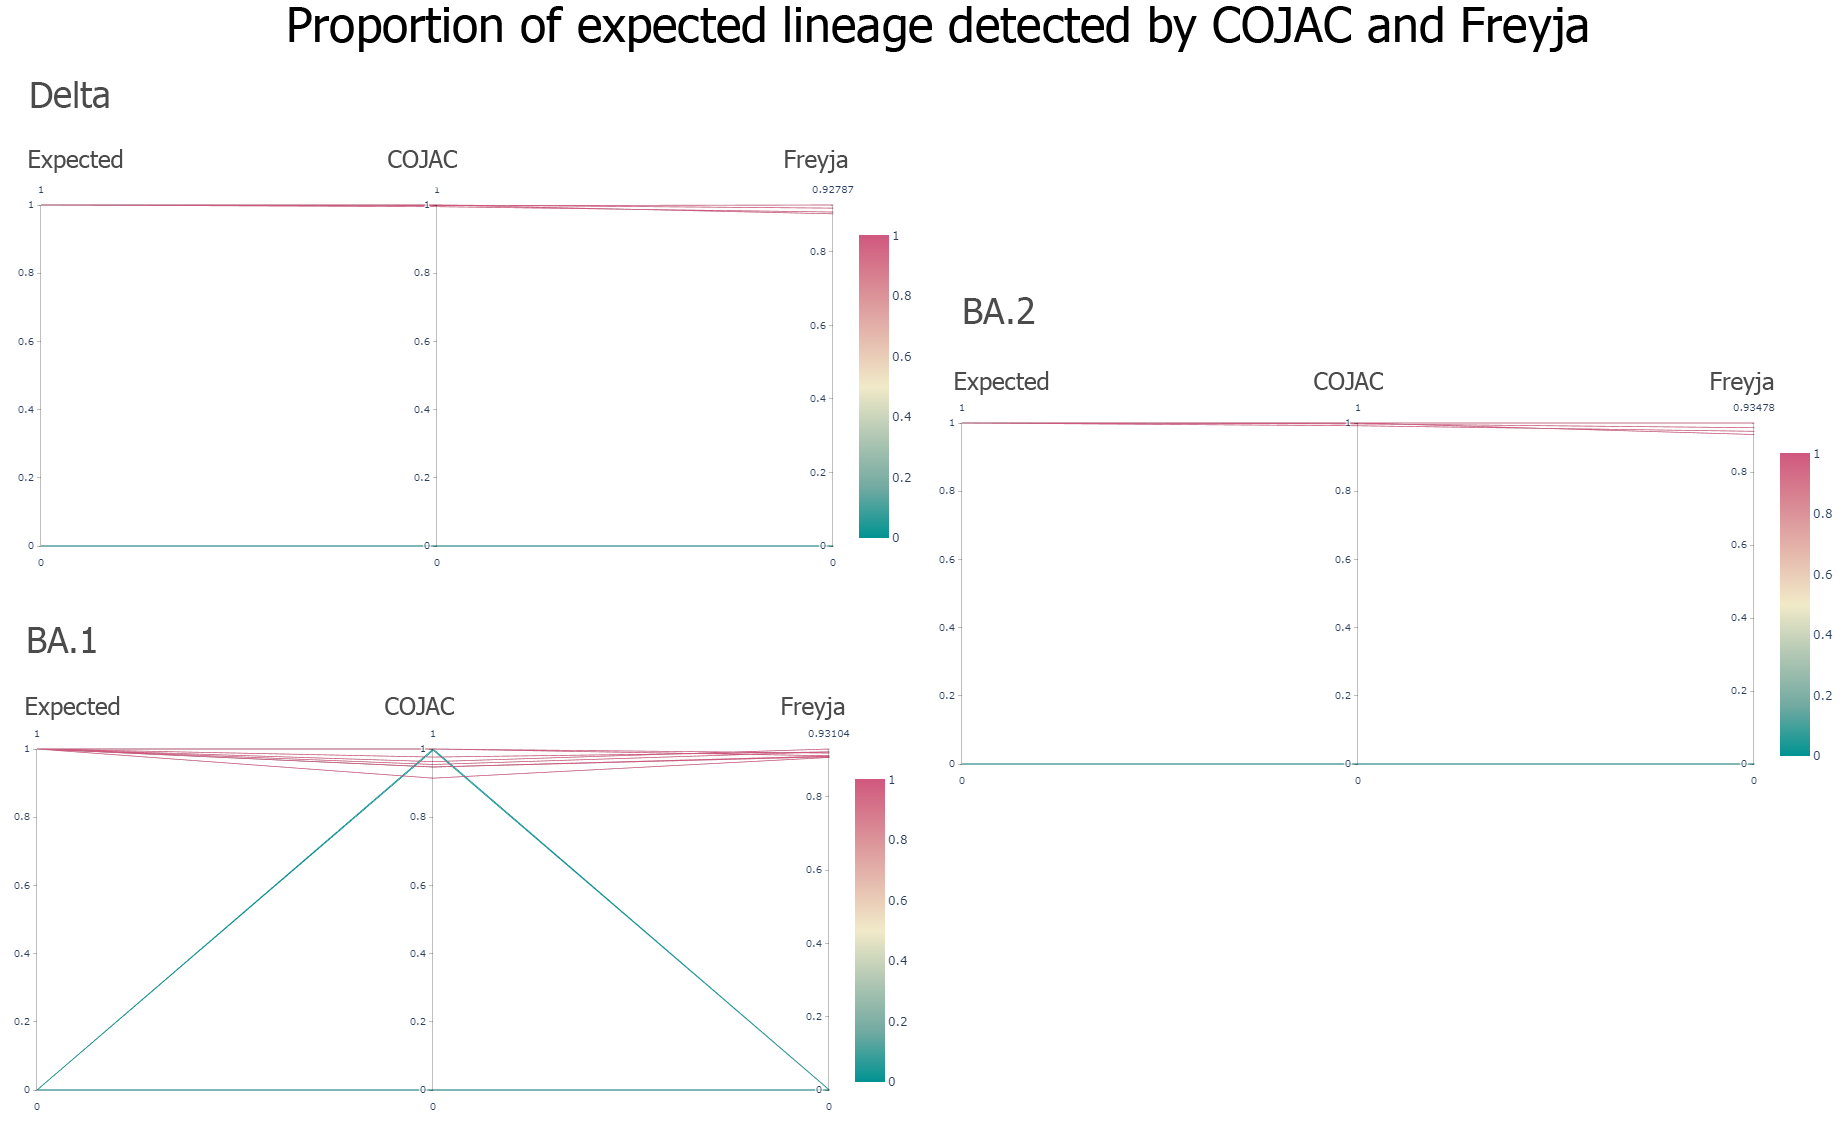
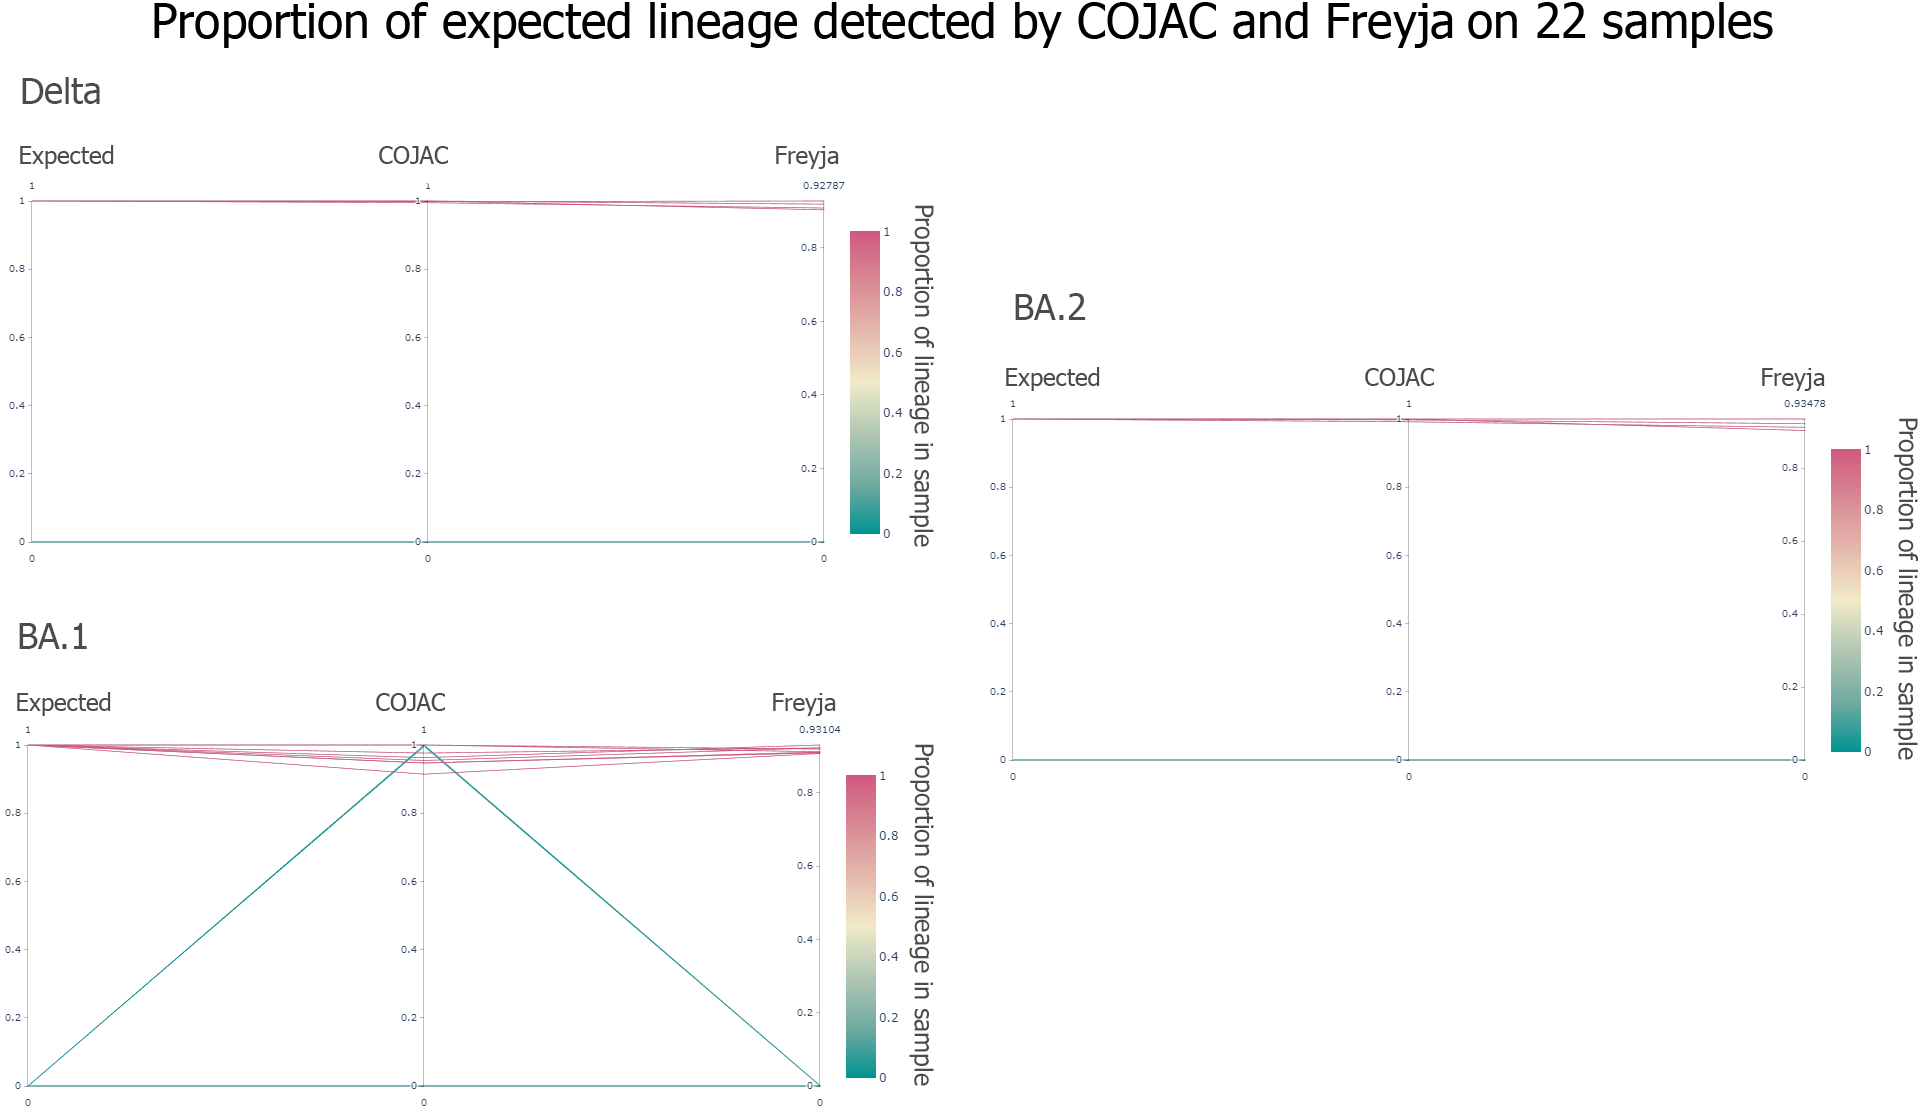
add

diff --git a/slides.md b/slides.md
@@ -313,6 +313,7 @@ Note:
 <img src="img/results/singlin-bar-venn.png" alt="drawing" width="800"/>
 
 Note:
+- 1
 - **Barplot:**
 - I analyzed separately samples were **single lineage** was expected. 
 - compared results from **COJAC**-based and **Freyja**-based Galaxy workflows with **Lineagespot**.
@@ -326,6 +327,7 @@ Note:
 - **Venn upset diagram:**
 - intersections between sets of results and determined which samples were correctly detected by which tool (in terms of the lineages expected) and how similar the results were between tools.
 - Each column corresponds to a set of obtained results from certain tools (COJAC, Lineagespot, Freyja), and bar charts on top show the size of the set of tool’s results. 
+- 2
 - The first row in the figure is completely empty, while 1 sample is expected to be detected but was not. This specific sample is expected to contain only unknown synthetic lineage.
 
 ------
@@ -333,14 +335,17 @@ Note:
 ### Results on mock dataset
 #### Single lineage expected
 
-<img src="img/results/pc-singlin.png" alt="drawing" width="800"/>
+<img class="fragment fade-out" data-fragment-index="0" src="img/results/pc-singlin.png" alt="drawing" width="800"/>
+<img class="fragment current-visible" data-fragment-index="0" src="img/results/pc-singlin-sample52.png" alt="drawing" width="800"/>
 
 Note:
-- Parallel coordinates plot was generated for **22** samples where **single lineage** was expected.
+- 1
+- I looked at **lineage proportions** detected by Freyja and COJAC compared with expected proportion.
+- Plots were produced on **22** samples where **single lineage** was expected
 - One plot per lineage: Delta, BA.1, BA.2 
-- to show **lineage proportions** detected by Freyja and COJAC compared with expected proportion. 
 - The left axis represents the expected proportion of the lineage, the middle axis represents the proportion of the lineage detected by COJAC, while the right axis represents the proportion of the lineage detected by Freyja.
 - Overall, proportions of lineages expected and detected by COJAC and Freyja close to each other
+- 2
 - In one curious case:
     - for 1 sample, BA.1 lineage was not expected but COJAC detected its proportion close to 1.
     - This sample containg recombinant of all 3 lineages (Delta, BA.1, BA.2).
